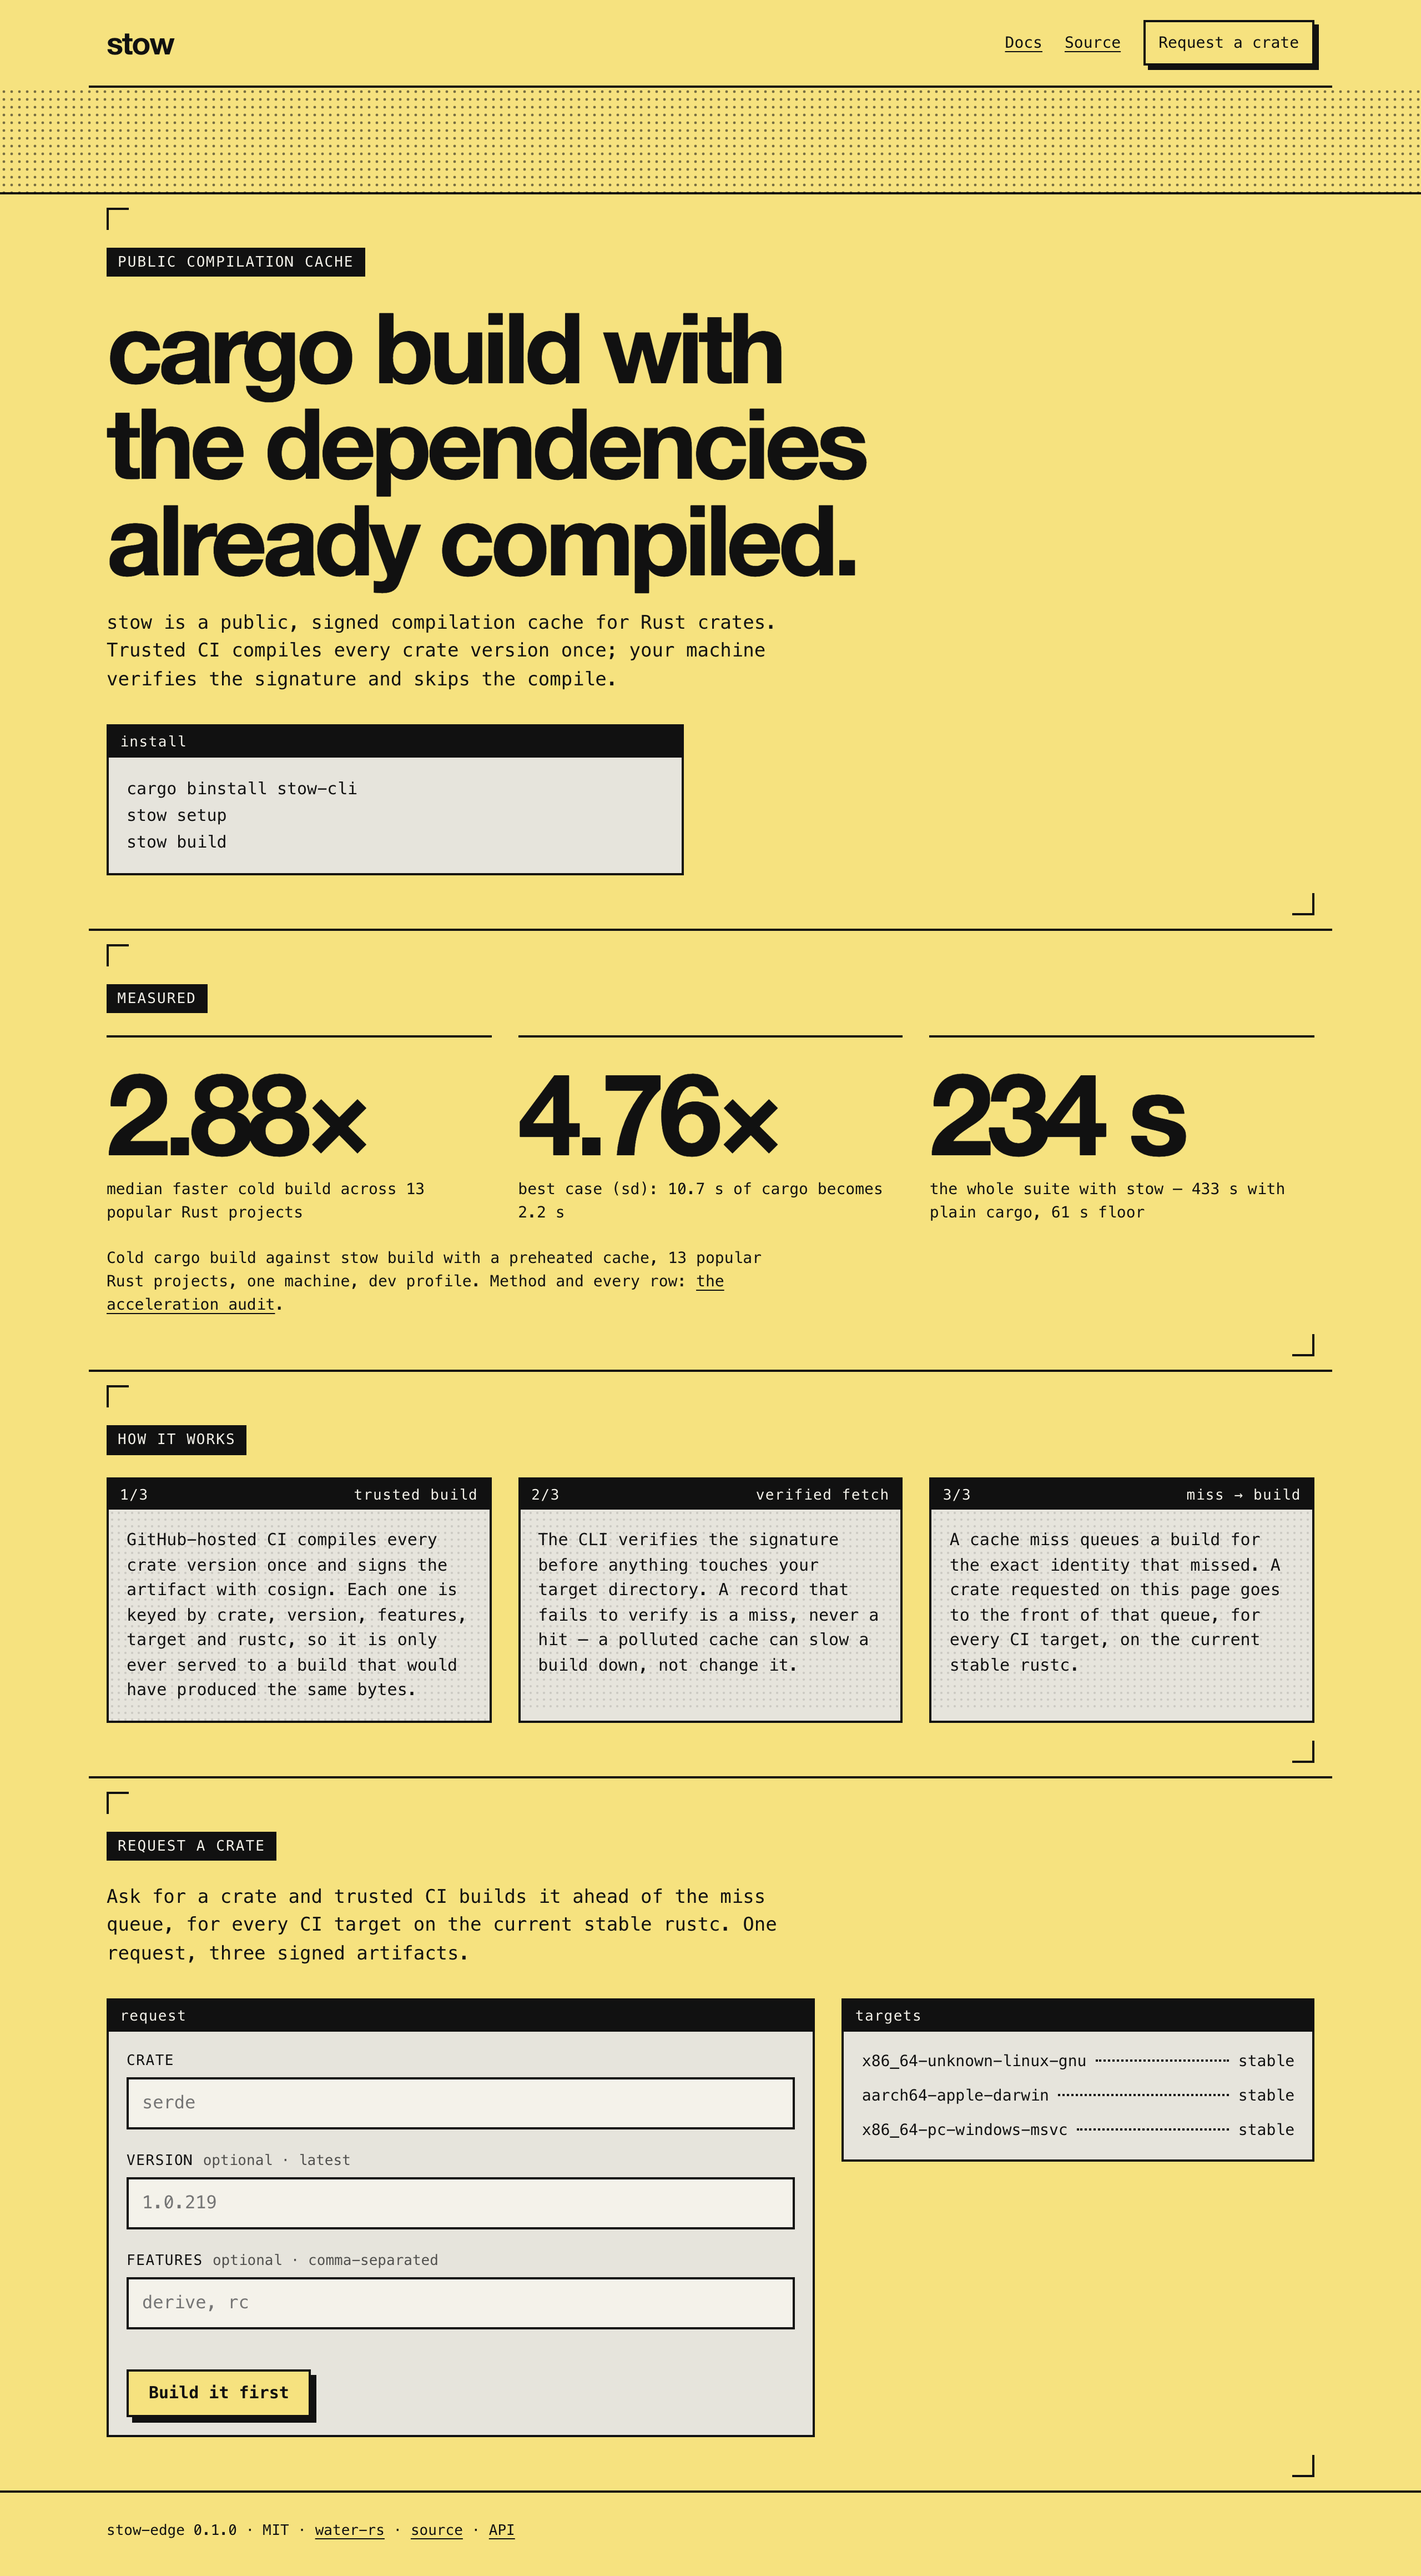
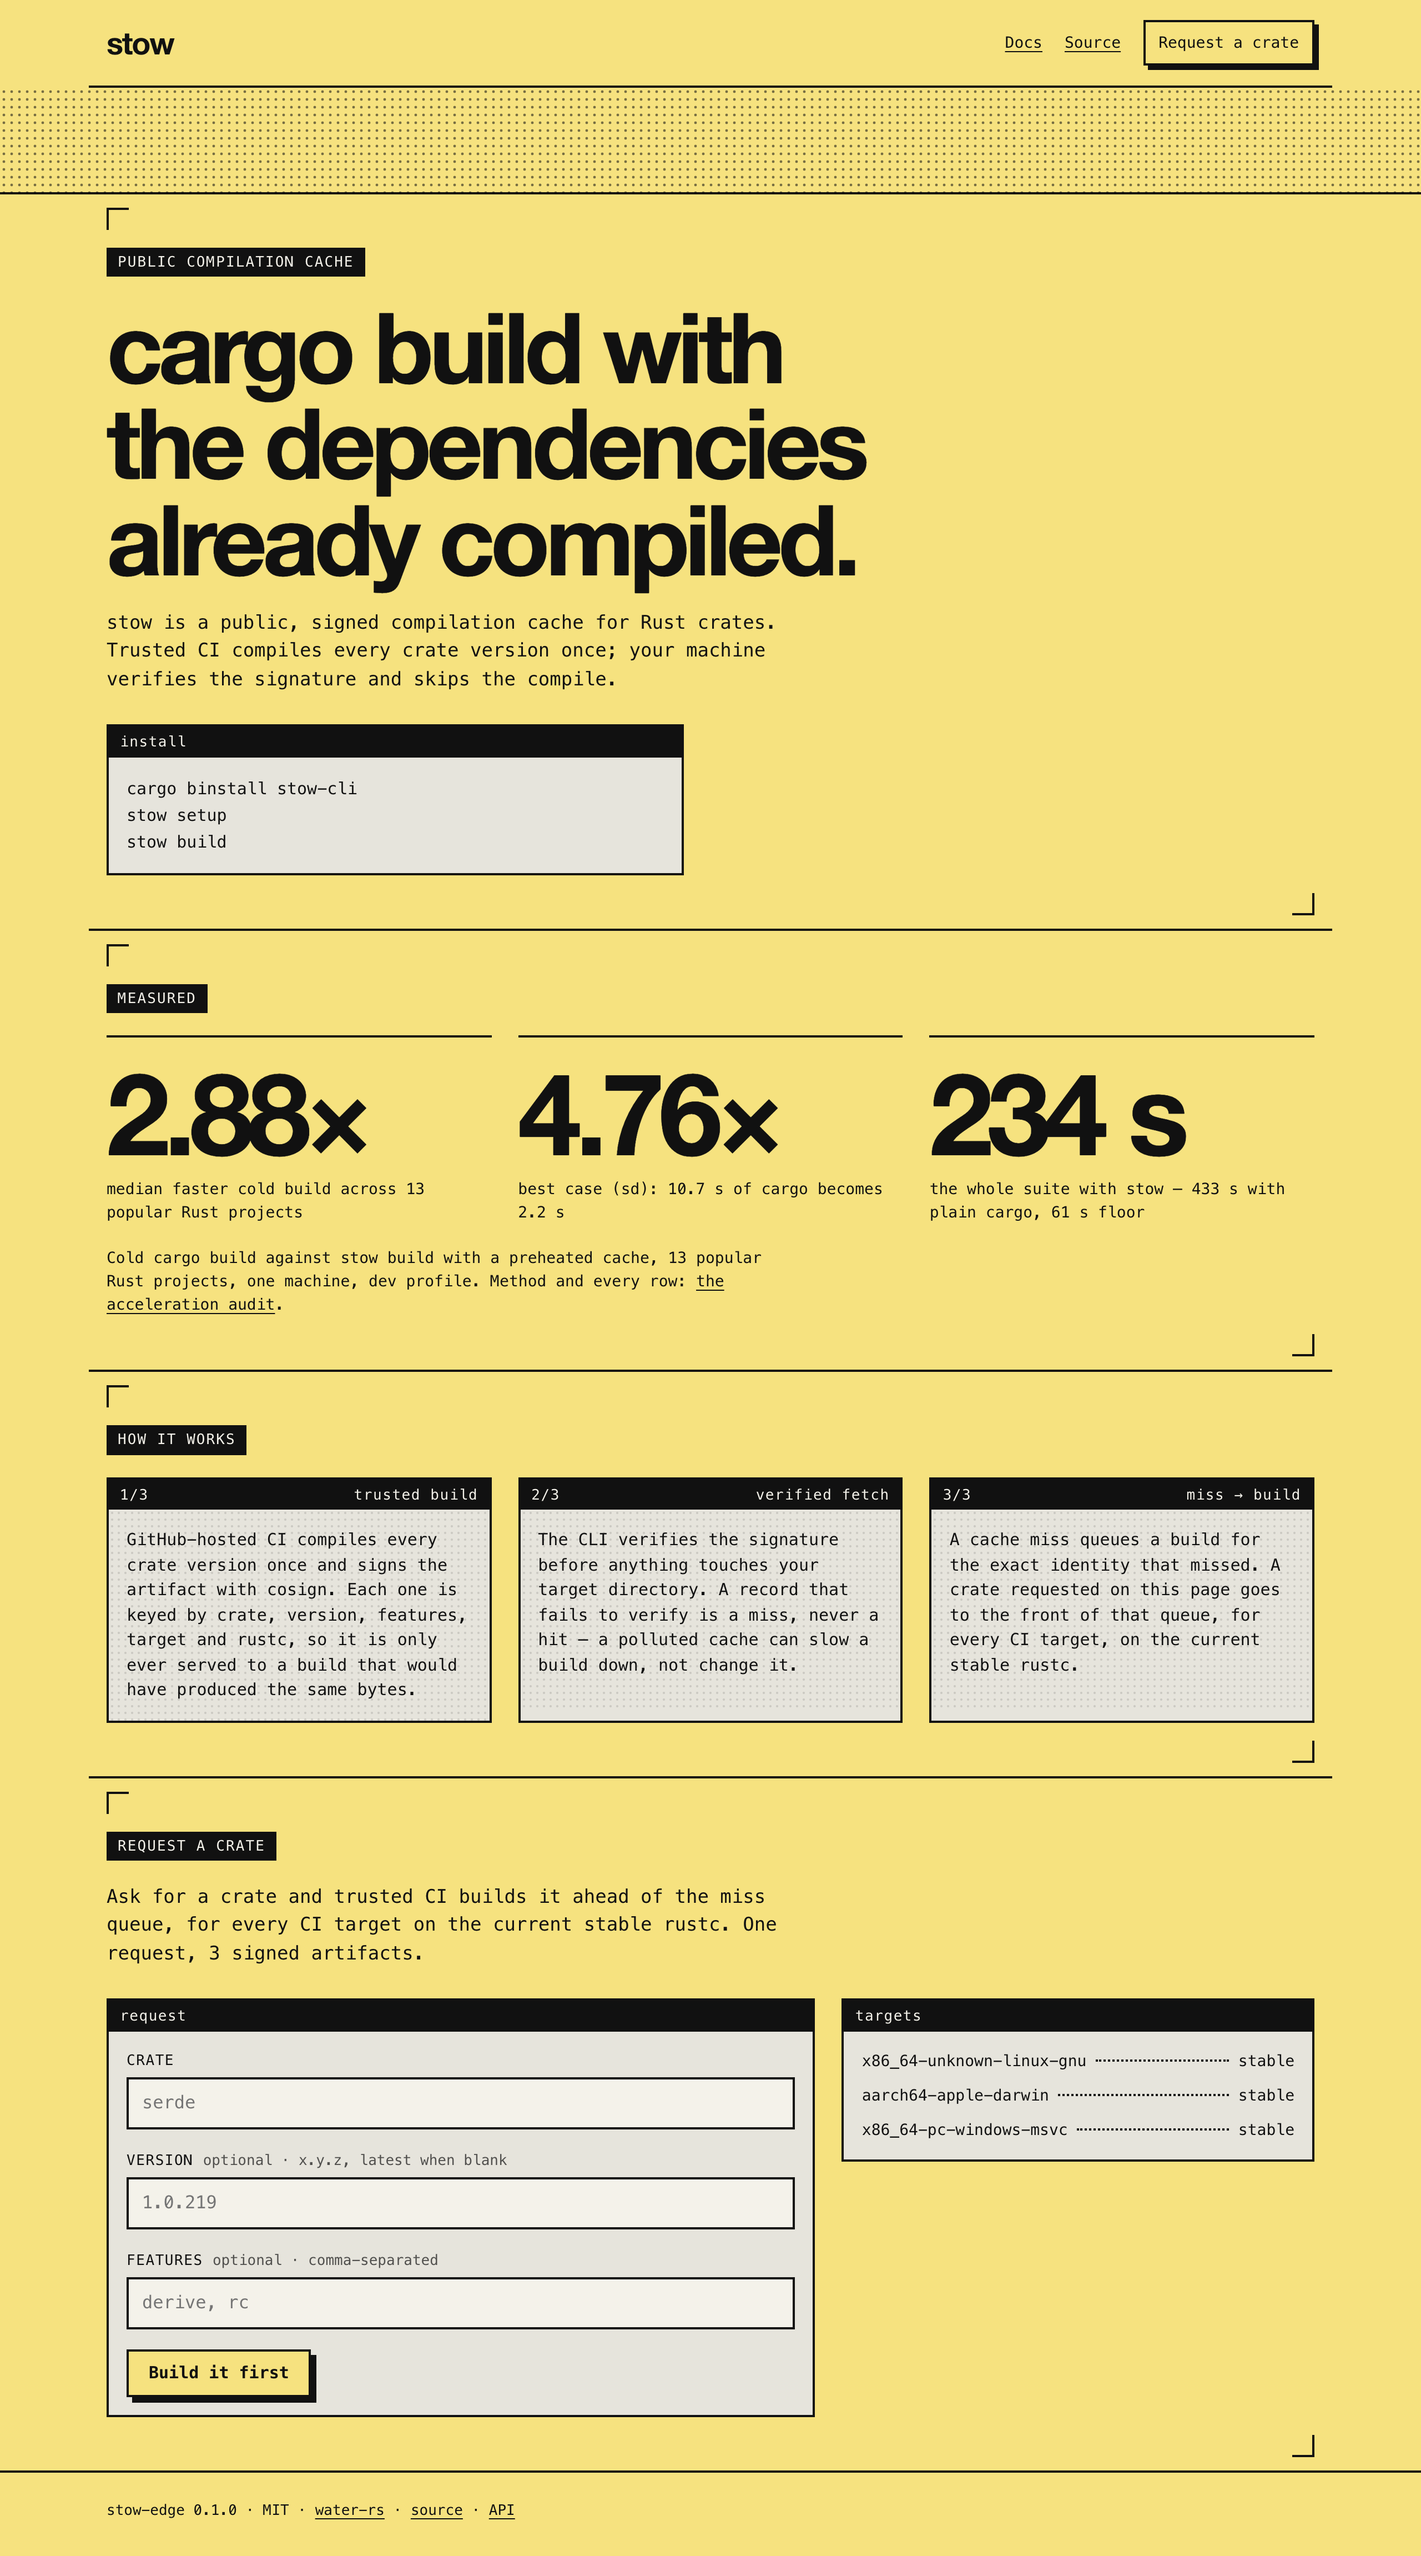
fix: canonical features, named 404s, and layout nits from review
The request form sorts and deduplicates the feature list before encoding
it, since FeaturesJson rejects any other order. VersionNotPublished reads
"has no published version 1.0.219" / "has no published stable release";
GET /api/v1/requests/{task_id} for an unknown task answers UnknownTask
instead of the artifact NotFound text. The Turnstile container sits beside
the button and is hidden while empty, so the form has no dead band; the
error colour and the card dither are tokens; the artifact count in the
request lede comes from the target list; the version hint says x.y.z.

diff --git a/edge/templates/index.html b/edge/templates/index.html
@@ -85,7 +85,7 @@ stow build</code></pre>
       <section class="request" id="request" aria-labelledby="request-title">
         <div class="frame">
           <h2 id="request-title" class="label">Request a crate</h2>
-          <p class="request-lede">Ask for a crate and trusted CI builds it ahead of the miss queue, for every CI target on the current stable rustc. One request, three signed artifacts.</p>
+          <p class="request-lede">Ask for a crate and trusted CI builds it ahead of the miss queue, for every CI target on the current stable rustc. One request, {{ targets.len() }} signed artifacts.</p>
           <div class="request-grid">
             <form id="request-form" class="window" novalidate>
               <div class="window-title"><span>request</span></div>
@@ -95,16 +95,16 @@ stow build</code></pre>
                   <input id="crate-name" name="crate_name" type="text" required autocomplete="off" spellcheck="false" placeholder="serde">
                 </div>
                 <div class="field">
-                  <label for="crate-version">version <span class="hint">optional · latest</span></label>
+                  <label for="crate-version">version <span class="hint">optional · x.y.z, latest when blank</span></label>
                   <input id="crate-version" name="version" type="text" autocomplete="off" spellcheck="false" placeholder="1.0.219">
                 </div>
                 <div class="field">
                   <label for="crate-features">features <span class="hint">optional · comma-separated</span></label>
                   <input id="crate-features" name="features" type="text" autocomplete="off" spellcheck="false" placeholder="derive, rc">
                 </div>
-                <div id="turnstile-widget" data-sitekey="{{ turnstile_site_key }}"></div>
                 <div class="actions">
                   <button id="submit-button" class="button" type="submit">Build it first</button>
+                  <div id="turnstile-widget" data-sitekey="{{ turnstile_site_key }}"></div>
                   <p id="form-status" class="status" role="status" aria-live="polite"></p>
                 </div>
               </div>

diff --git a/edge/templates/site.css b/edge/templates/site.css
@@ -7,6 +7,8 @@
   --paper: #f4f2ea;
   --panel: #e6e4dc;
   --dot: rgba(17, 17, 17, 0.55);
+  --card-dot: rgba(17, 17, 17, 0.12);
+  --error: #a1130f;
   --grotesque: "Inter", "Helvetica Neue", Helvetica, Arial, sans-serif;
   --mono: ui-monospace, "SF Mono", Menlo, Consolas, "Liberation Mono", monospace;
   --gutter: 16px;
@@ -21,6 +23,8 @@
     --paper: #1f1e19;
     --panel: #292822;
     --dot: rgba(243, 241, 232, 0.35);
+    --card-dot: rgba(243, 241, 232, 0.14);
+    --error: #ff8a80;
   }
 }
 
@@ -181,11 +185,8 @@ code { font-family: var(--mono); }
 }
 .card .window-body {
   min-height: 180px;
-  background-image: radial-gradient(rgba(17, 17, 17, 0.12) 1px, transparent 1.1px);
+  background-image: radial-gradient(var(--card-dot) 1px, transparent 1.1px);
   background-size: 6px 6px;
-}
-@media (prefers-color-scheme: dark) {
-  .card .window-body { background-image: radial-gradient(rgba(243, 241, 232, 0.14) 1px, transparent 1.1px); }
 }
 .card p { margin: 0; font-size: 15px; }
 
@@ -213,8 +214,9 @@ code { font-family: var(--mono); }
 .field input:focus { outline: 3px solid var(--accent-deep); outline-offset: 1px; }
 .actions { display: flex; flex-wrap: wrap; gap: 16px; align-items: center; }
 .status { margin: 0; font-size: 14px; }
-.status[data-kind="error"] { color: #a1130f; font-weight: 700; }
-@media (prefers-color-scheme: dark) { .status[data-kind="error"] { color: #ff8a80; } }
+.status[data-kind="error"] { color: var(--error); font-weight: 700; }
+/* Invisible until Turnstile needs an interaction; then it sits beside the button. */
+#turnstile-widget:empty { display: none; }
 
 .leader-list { list-style: none; display: grid; gap: 10px; }
 .leader-list li { display: flex; align-items: baseline; gap: 8px; font-size: 14px; }

diff --git a/edge/templates/site.js b/edge/templates/site.js
@@ -78,11 +78,16 @@
 
   const submitRequest = async (token) => {
     setStatus("submitting…", "info");
-    const features = featuresInput.value
-      .split(",")
-      .map((feature) => feature.trim())
-      .filter((feature) => feature !== "");
-    // `FeaturesJson` travels as a JSON-encoded string of the feature list.
+    // `FeaturesJson` travels as a JSON-encoded string of the feature list,
+    // sorted and deduplicated: the edge rejects any other order.
+    const features = [
+      ...new Set(
+        featuresInput.value
+          .split(",")
+          .map((feature) => feature.trim())
+          .filter((feature) => feature !== ""),
+      ),
+    ].sort();
     const payload = {
       crate_name: crateNameInput.value.trim(),
       features_json: JSON.stringify(features),

diff --git a/edge/src/api.rs b/edge/src/api.rs
@@ -1363,10 +1363,10 @@ async fn resolve_request_version(
     };
     resolved.ok_or_else(|| GetArtifactError::VersionNotPublished {
         crate_name: request.crate_name.as_str().to_owned(),
-        requested: request
-            .version
-            .as_ref()
-            .map_or_else(|| "a stable release".to_owned(), ToString::to_string),
+        requested: request.version.as_ref().map_or_else(
+            || "stable release".to_owned(),
+            |version| format!("version {version}"),
+        ),
     })
 }
 
@@ -1488,7 +1488,9 @@ pub async fn crate_request_status(
     let status = statuses
         .into_iter()
         .find(|status| status.task_id == task_id)
-        .ok_or(GetArtifactError::NotFound)?;
+        .ok_or_else(|| GetArtifactError::UnknownTask {
+            task_id: task_id.to_owned(),
+        })?;
     Ok(Json(status))
 }
 
@@ -2396,8 +2398,15 @@ pub enum GetArtifactError {
     VersionNotPublished {
         /// The crate the caller asked for.
         crate_name: String,
-        /// The exact version asked for, or "a stable release".
+        /// `version X.Y.Z` when one was asked for, else `stable release`.
         requested: String,
+    },
+    /// `GET /api/v1/requests/{task_id}` for a task the scheduler does not
+    /// know: never enqueued, or already reaped.
+    #[error("unknown request task id `{task_id}`", status = NOT_FOUND)]
+    UnknownTask {
+        /// The id from the request path.
+        task_id: String,
     },
     #[error("GHCR unavailable", status = BAD_GATEWAY)]
     GhcrUnavailable,
